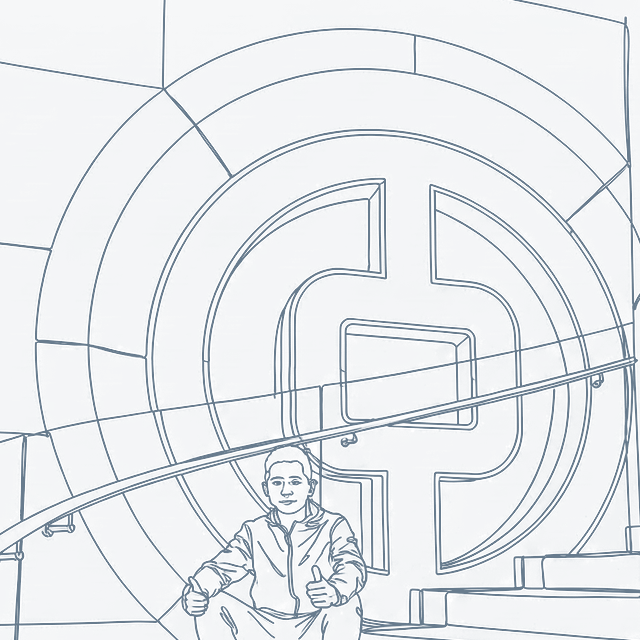
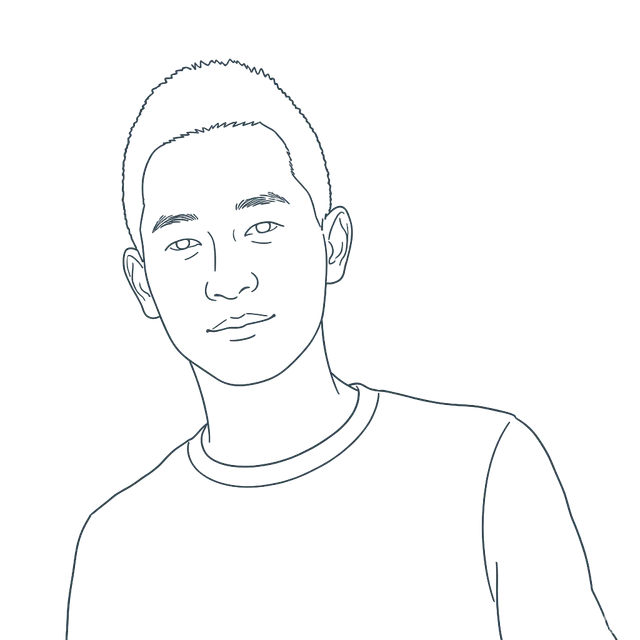
头像重做：去掉中国银行行徽，人是唯一主体；圆框 280→360px，图片 76%→100%，分享卡同步；体积 154→36.5KB

diff --git a/index.html b/index.html
@@ -1267,7 +1267,8 @@ body{ background:var(--page-bg); }
 }
 @media (min-width:768px){
   .hero-body{
-    grid-template-columns:minmax(0,1fr) 280px;
+    /* 头像列从 280 提到 360：姓名 104px 时，280px 的圆撑不住右侧的视觉重量 */
+    grid-template-columns:minmax(0,1fr) 360px;
     align-items:start;
     gap:var(--space-10);
   }
@@ -1298,13 +1299,10 @@ body{ background:var(--page-bg); }
   overflow:hidden;
 }
 .hero-photo img{
-  width:76%; height:76%; object-fit:contain;
-  /* 头像是蓝色线稿。纸与墨体系里用 sepia 归暖 + 轻微降饱和，
-     让线稿融进暖米纸底，不抢姓名的主角位。 */
-  filter:sepia(.45) saturate(.6) brightness(.95);
+  /* 新头像是透明底 + 深墨蓝线稿（rgb 45,63,74），本身就是「纸与墨」同族色。
+     铺满圆框，让人成为唯一主角；不再套 sepia 染色、不再正片叠底。 */
+  width:100%; height:100%; object-fit:contain;
   border-radius:50%;
-  /* 原图自带浅色圆盘底，正片叠底让它跟卡片底色走 */
-  mix-blend-mode:multiply;
   background:transparent;
 }
 .hero-dots{
@@ -1419,12 +1417,9 @@ body{ background:var(--page-bg); }
   /* 徽记在暗色下也用深金底：亮金底上白字只有 1.77:1，不够 */
   .race-honor{ background:#A05F2E; }
   .btn--blue{ border-color:#A05F2E; }
-  /* 头像在暗色下必须反相：正片叠底会让深色线稿乘进深背景，整块糊成黑。
-     反相后线稿变成浅色，再 sepia 加暖，就不会是死白。 */
-  .hero-photo img{
-    filter:invert(1) sepia(1) hue-rotate(60deg) saturate(.6) brightness(1.05);
-    mix-blend-mode:normal;
-  }
+  /* 头像在暗色下反相：透明底不受影响，深墨蓝线 rgb(45,63,74) 反相成浅暖米
+     rgb(210,192,181)，压在深色圆底上清楚。不再叠 sepia/hue-rotate（旧绿金链路）。 */
+  .hero-photo img{ filter:invert(1); }
   .qr-card, .figure-card{ background:#1E2630; }
   /* --brand-ink 是深橄榄，暗色下会糊成一片：凡是用它当文字色的地方一律提亮。
      注意不能直接覆盖变量本身 —— .btn--ink 拿它当背景，覆盖了按钮就没底了。 */
@@ -1763,7 +1758,7 @@ html.js .view.is-active{ display:block; }
                    46KB 的 WebP，比原来 53KB 的 256px PNG 还小，却清晰一倍。
                    没用 AVIF：36KB 更小，但 GitHub Pages 的 .avif MIME 无法在本机验证，
                    <source> 加载失败不会回落到 <img>，赌不起。 -->
-              <img src="assets/avatar-640.webp" alt="Chew Teck Wai 的卡通头像" width="640" height="640" decoding="async">
+              <img src="assets/avatar-640.webp" alt="Chew Teck Wai 的线稿肖像" width="640" height="640" decoding="async">
               </div>
             </div>
           </div>

diff --git a/设计规范.md b/设计规范.md
@@ -1679,3 +1679,45 @@ UNSLOP Direction 重设：
 - 首页「找到我」邮箱仍是 `【待补：邮箱地址】` —— 需站长本人提供，不编造。
 - 市运会：2008 沙坪坝冠军、2019.8 永川代表江津已入页；2021 市六运会名次、2024 市七运会是否参赛**待本人确认**，不推断。
 - 13 处 v1/v3 重复选择器为历史层叠，功能与验收均无影响，本轮不合并（无实际收益，避免为改而改）。
+
+---
+
+## J-22 · 头像重做：去掉中国银行行徽，人是唯一主体（2026-11-15）
+
+**触发**：站长明确指出「logo 里边人都没显示完整，只显示到了上半身，而且放得很小，应该主要突出人，而不是突出中国银行的标志」。
+
+### 一、根因（三层叠加，不换图不可能修好）
+
+1. **源图构图错了**：旧 `avatar-640.webp` 是照着真实照片「坐在台阶上、背后是中国银行红色大行徽」生成的线稿。原照片里人本来只占画面下方一角、只到腰部，行徽占满背景。这张图的**主体是行徽，不是人**。
+2. **CSS 又缩了一层**：`.hero-photo img{width:76%;height:76%}` 把已经很小的人再缩到圆框的 76%。
+3. **栅格把圆框写死 280px**：`.hero-body{grid-template-columns:minmax(0,1fr) 280px}`，姓名放大到 104px 后圆的视觉分量撑不住。
+
+### 二、新头像怎么来的
+
+- 参考照片改用 `_tmp/userimg/clipboard-2026-11-15T04-03-48-745Z-fafa14ff.jpg`（双人合影）裁出右侧本人：短寸头、瘦长脸、不戴眼镜、深色圆领 T 恤，1024×1024 正面清晰。
+- ImageGen 图生图，prompt 硬约束：头肩构图、人占画面 80%、纯白空背景、**无任何银行标志/硬币徽记/建筑/第二人/搭肩的手**、NO GLASSES、无文字无水印。
+- 水印核验：右下角 ASCII 可视化只有两条肩袖轮廓线，暗像素占比 1.72%，无字形块。
+- 键控：亮度 LO=90 / HI=238 键 alpha，线色统一 `rgb(45,63,74)`（生成图实测值，正好深墨蓝系），右移 60px 让头部居中，导出 640×640 透明底 WebP，`quality:82 / alphaQuality:82`。
+
+### 三、取舍：不采用「完整收圆」
+
+算过墨迹最大半径 697.7px、圆半径 512px，要让所有线条不被圆裁需缩到 s=0.722。做了预览对比后**放弃**——人明显缩回去、周围大片留白，直接违背站长「放得很小 / 要突出人」的要求。采用**人占满圆框**的肖像构图：头肩完整、脸是绝对主角，肩线在圆边界自然收束（标准圆形头像做法）。额前那条横线是寸头发际线（放大核验过），不是切割或水印。
+
+### 四、CSS 与资产同步
+
+| 位置 | 旧 | 新 |
+|---|---|---|
+| `.hero-photo img` | `76%` + `sepia(.45) saturate(.6)` + `mix-blend-mode:multiply` | `100%` 铺满，无染色无叠底（新图本身深墨蓝，就是纸与墨同族色） |
+| 暗色 `.hero-photo img` | `invert(1) sepia(1) hue-rotate(60deg) saturate(.6)`（旧绿金链路） | 只留 `invert(1)`，深墨蓝线反相成浅暖米 rgb(210,192,181) |
+| `.hero-body` 媒体列 | 280px | **360px** |
+| alt | 「卡通头像」 | 「线稿肖像」 |
+| `assets/avatar-640.webp` | 154.3KB（含行徽） | **36.5KB**（只人） |
+| `assets/og-home.png` | 旧行徽头像 + `76%` + 旧滤镜 | 同步新头像 + `100%`；2x 渲染 2400×1260 再缩 1200×630 |
+
+**分享卡踩坑**：第一次用 viewport 2400×1260 但模板 body 固定 1200×630，内容挤进左上四分之一。正确做法是 viewport 1200×630 + `deviceScaleFactor:2`，渲染出 2400×1260 再缩。
+
+### 五、验收（全绿）
+
+axe 26/26 路由零违规；html-validate exit 0；smoke 控制台 0 错；measure 桌面+移动 8 视图点击目标 0；vitals FCP/LCP 228ms、**CLS 0**、TTFB 70ms、2 请求、**总传输 393.1KB → 278.0KB**。亮暗 Hero 与分享卡目视确认。
+
+旧图已备份至 `_tmp/userimg/avatar3/avatar-OLD-bank-logo.webp`（不进仓库）。
